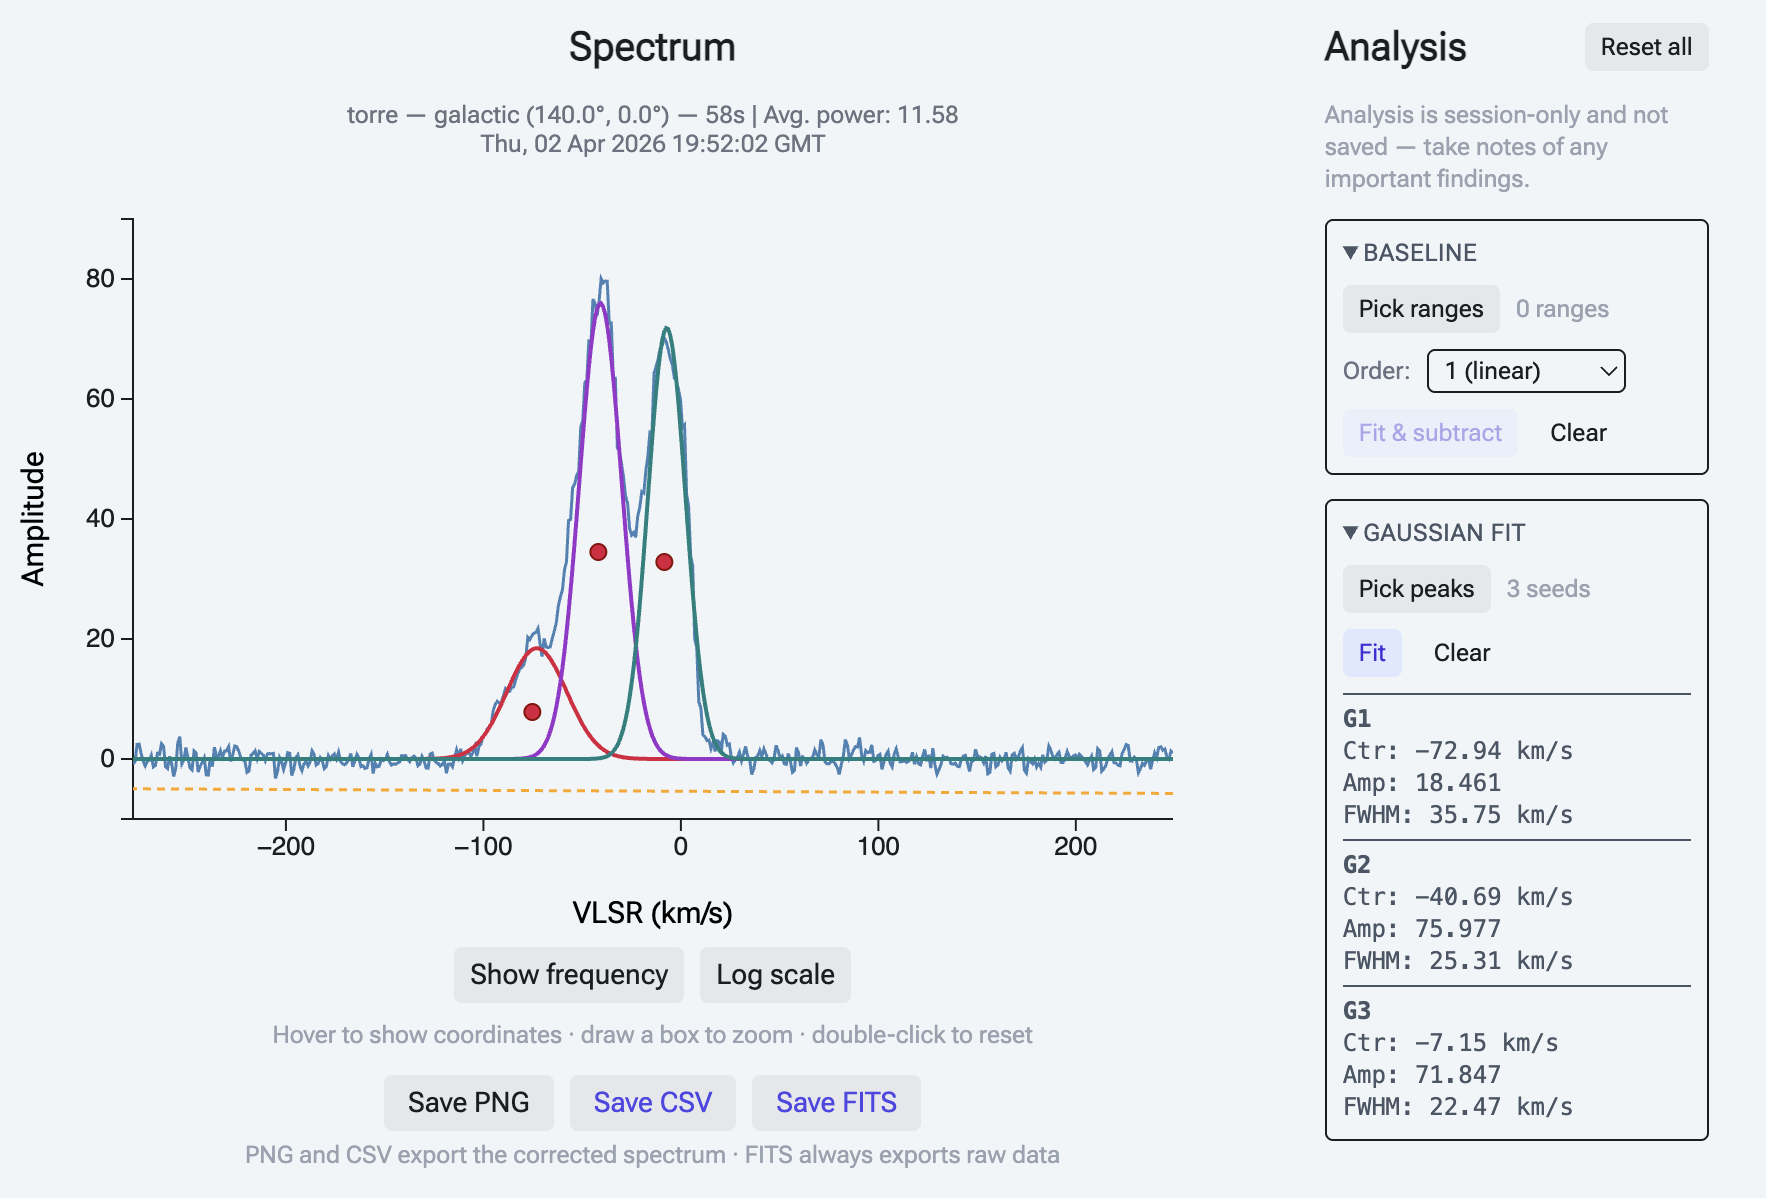
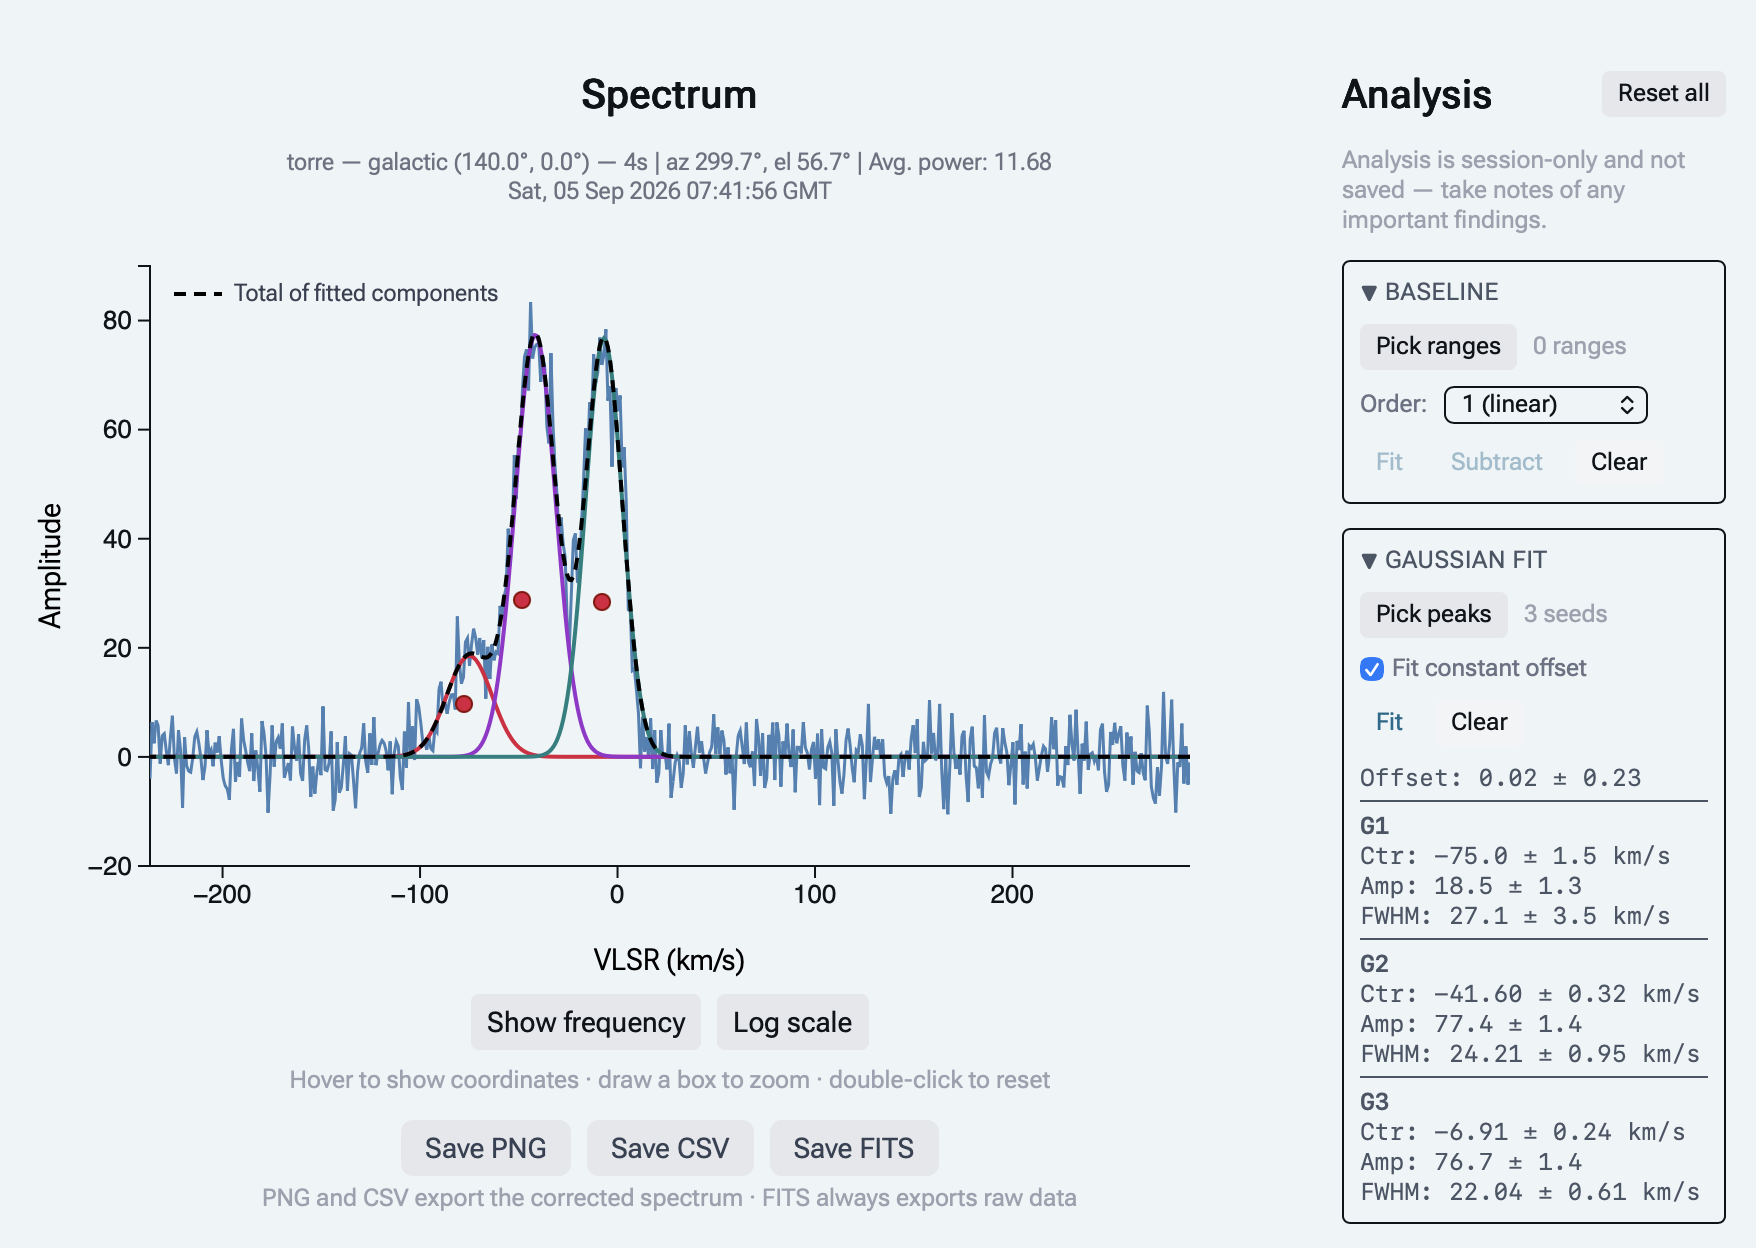
Update the Gaussian fit example in the user manual
The screenshot predated the total-of-components line, the constant
offset and the uncertainties. The new one shows all three, on a
three-component fit towards l=140, and the English and Swedish captions
now say what the dashed line and the ± values are.

diff --git a/assets/user-manual.sv.html b/assets/user-manual.sv.html
@@ -340,7 +340,7 @@ mål.</p>
 
       <figure class="my-2 max-w-xl">
         <img src="/gauss_example.png" alt="Tre gausskomponenter anpassade till ett spektrum" class="rounded-lg w-full">
-        <figcaption class="text-sm text-gray-500 mt-1">Resultatet efter anpassning av tre gausskomponenter till ett spektrum. Anpassade parametrar som centralhastighet för varje topp visas nere till höger som G1, G2, G3.</figcaption>
+        <figcaption class="text-sm text-gray-500 mt-1">Resultatet efter anpassning av tre gausskomponenter till ett spektrum. Den streckade svarta linjen är deras summa. Den anpassade nivån och varje komponents parametrar, till exempel dess centralhastighet, visas med sina osäkerheter nere till höger som Offset, G1, G2, G3.</figcaption>
       </figure>
     </div>
   </details>

diff --git a/assets/user-manual.html b/assets/user-manual.html
@@ -337,7 +337,7 @@ target.</p>
 
       <figure class="my-2 max-w-xl">
         <img src="/gauss_example.png" alt="Three Gaussian components fitted to a spectrum" class="rounded-lg w-full">
-        <figcaption class="text-sm text-gray-500 mt-1">The result after fitting three Gaussian components to a spectrum. Fitted parameters such as central velocity for each peak are shown in the lower right as G1, G2, G3.</figcaption>
+        <figcaption class="text-sm text-gray-500 mt-1">The result after fitting three Gaussian components to a spectrum. The dashed black line is their sum. The fitted offset and each component's parameters, such as its central velocity, are listed with their uncertainties at the lower right as Offset, G1, G2, G3.</figcaption>
       </figure>
     </div>
   </details>
